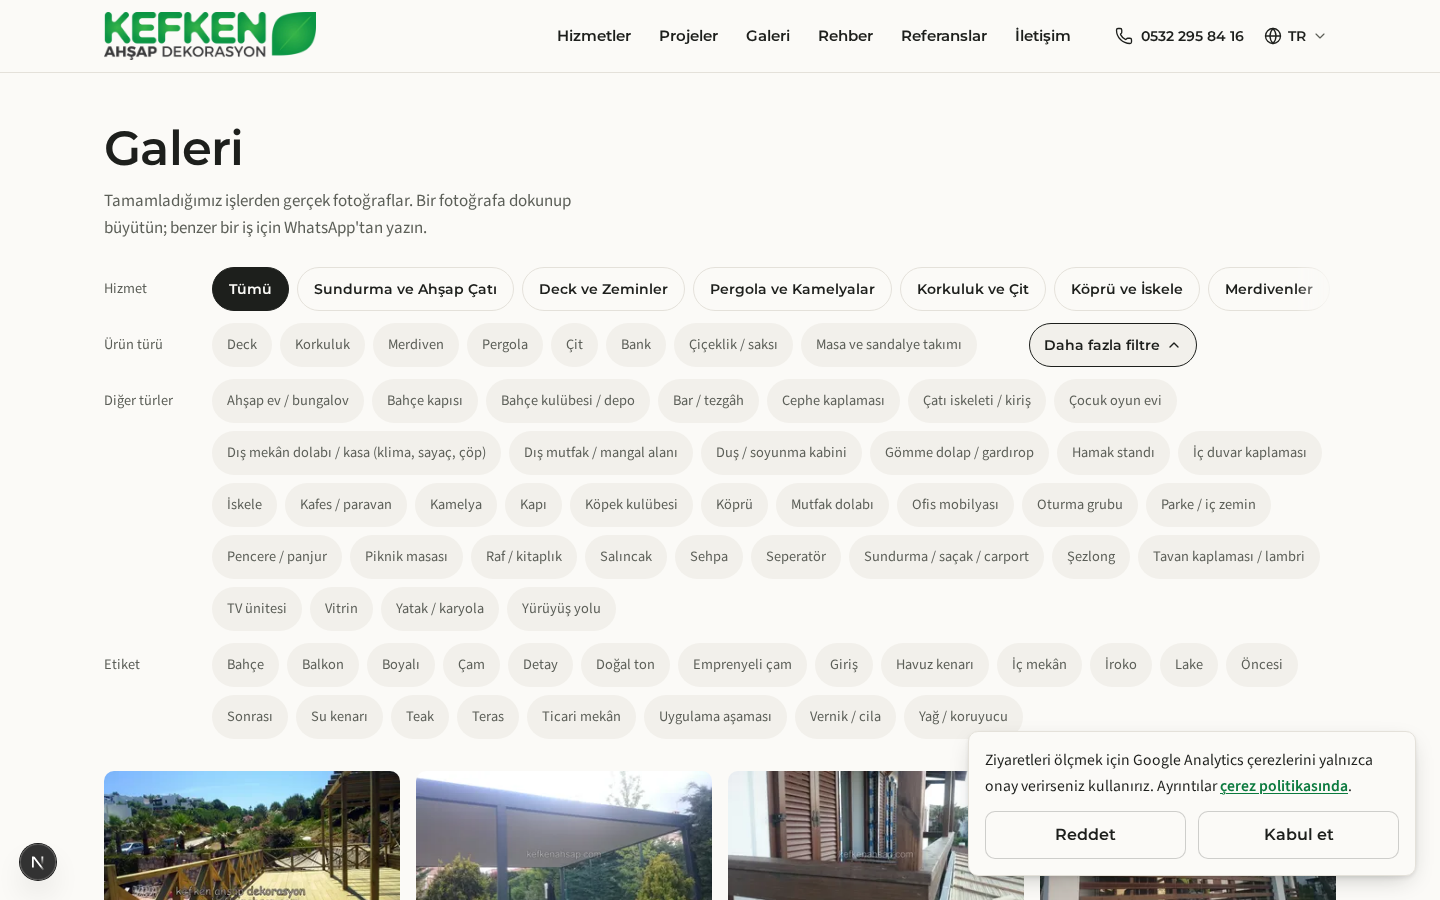
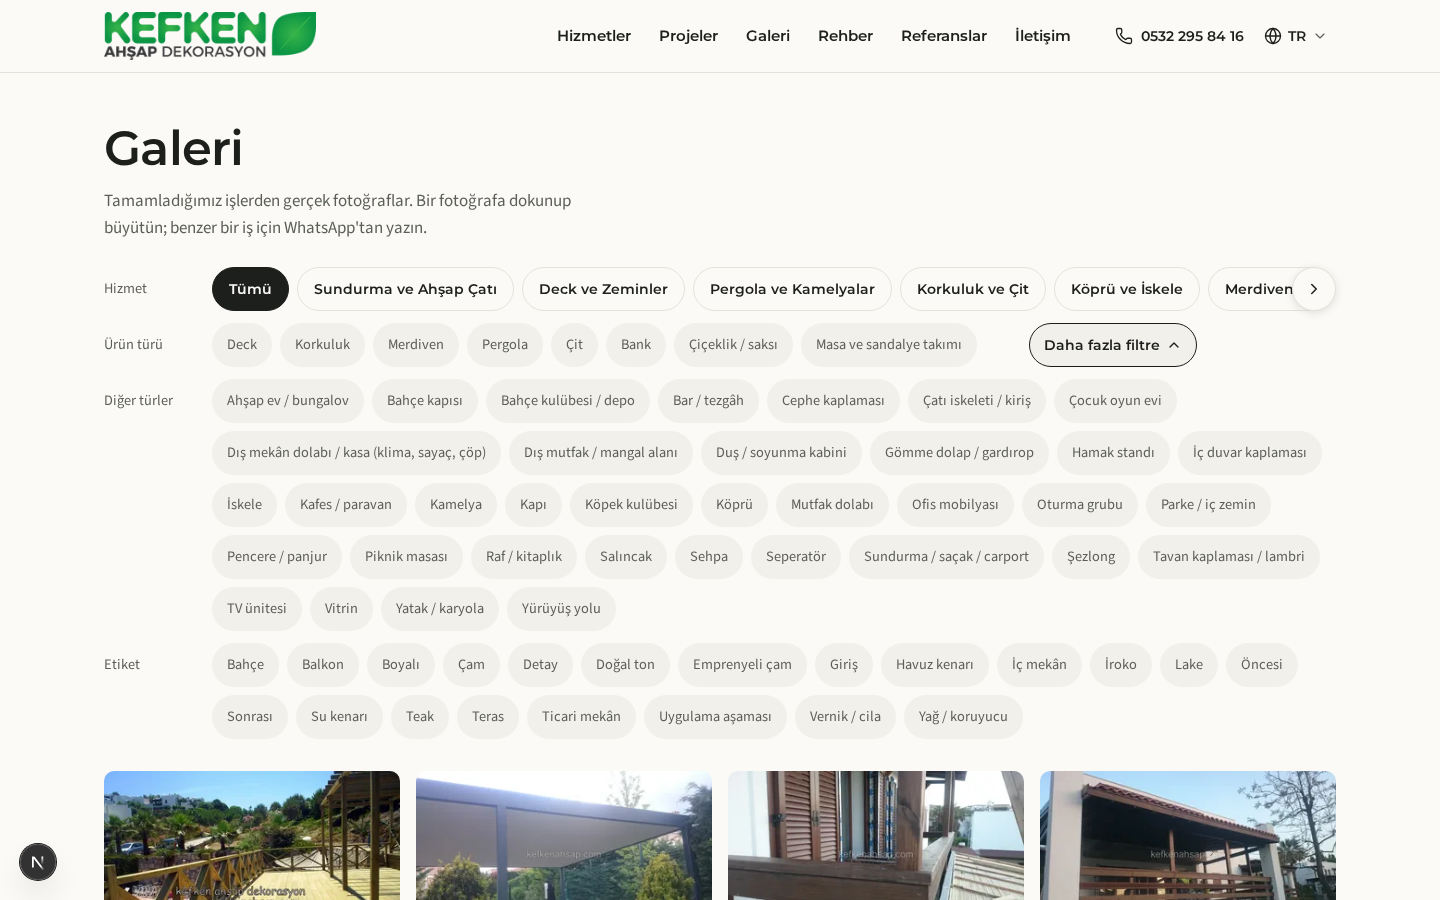
fix(gallery): mouse arrows on the filter rails, filters reachable without JS (#178)

Changed region(s): [[0.6562, 0.84, 0.9688, 0.9956]]

diff --git a/src/components/gallery/FilterControls.tsx b/src/components/gallery/FilterControls.tsx
@@ -1,26 +1,65 @@
 'use client'
 
-import { ChevronDown, SlidersHorizontal } from 'lucide-react'
+import { ChevronDown, ChevronLeft, ChevronRight, SlidersHorizontal } from 'lucide-react'
 import { useEffect, useRef, useState, type ReactNode } from 'react'
 
 /**
  * One-line chip rail (no wrap): scrolls sideways with snap, fades at its inline end, and centres the active chip
- * (`aria-current`) on load. A physical scrollBy delta, so it works in RTL and never scrolls the page itself.
+ * (`aria-current`) on load. Physical scrollBy deltas, so it works in RTL and never scrolls the page itself. Mouse users
+ * get previous/next arrows while there is more to scroll (touch swipes, keyboard tabs through the chips).
+ * `className` places the rail in its row; `railClassName` pads the scrolling strip.
  */
-export function FilterRail({ className = '', children, ...rest }: { className?: string; children: ReactNode } & React.HTMLAttributes<HTMLDivElement>) {
+export function FilterRail({
+  className = '',
+  railClassName = '',
+  children,
+  ...rest
+}: { className?: string; railClassName?: string; children: ReactNode } & React.HTMLAttributes<HTMLDivElement>) {
   const ref = useRef<HTMLDivElement>(null)
+  const [more, setMore] = useState({ back: false, next: false })
   useEffect(() => {
     const box = ref.current
-    const el = box?.querySelector('[aria-current]')
-    if (!box || !el) return
-    const b = box.getBoundingClientRect()
-    const r = el.getBoundingClientRect()
-    if (r.left >= b.left && r.right <= b.right - 40) return
-    box.scrollBy({ left: r.left - b.left - (b.width - r.width) / 2 })
+    if (!box) return
+    const el = box.querySelector('[aria-current]')
+    if (el) {
+      const b = box.getBoundingClientRect()
+      const r = el.getBoundingClientRect()
+      if (r.left < b.left + 40 || r.right > b.right - 40) box.scrollBy({ left: r.left - b.left - (b.width - r.width) / 2 })
+    }
+    // RTL scrollLeft runs negative from 0, so the magnitude is the distance from the start in both directions.
+    const sync = () => {
+      const x = Math.abs(box.scrollLeft)
+      setMore({ back: x > 1, next: x + box.clientWidth < box.scrollWidth - 1 })
+    }
+    const ro = new ResizeObserver(sync)
+    ro.observe(box)
+    box.addEventListener('scroll', sync, { passive: true })
+    return () => (ro.disconnect(), box.removeEventListener('scroll', sync))
   }, [])
+  const page = (dir: 1 | -1) => {
+    const box = ref.current
+    if (!box) return
+    const rtl = getComputedStyle(box).direction === 'rtl' ? -1 : 1
+    box.scrollBy({ left: dir * rtl * box.clientWidth * 0.8, behavior: 'smooth' })
+  }
+  const arrow =
+    'absolute top-1/2 z-10 hidden size-11 -translate-y-1/2 items-center justify-center rounded-full border border-line bg-paper text-ink shadow-[0_2px_8px_rgb(29_31_28/0.12)] transition-colors hover:border-ink/40 pointer-fine:flex'
   return (
-    <div ref={ref} {...rest} className={`rail ${className}`}>
-      {children}
+    <div className={`relative min-w-0 ${className}`}>
+      <div ref={ref} {...rest} className={`rail ${railClassName}`}>
+        {children}
+      </div>
+      {/* Mouse-only shortcuts: keyboard and screen readers already reach every chip in order. */}
+      {more.back && (
+        <button type="button" tabIndex={-1} aria-hidden onClick={() => page(-1)} className={`${arrow} start-0`}>
+          <ChevronLeft size={18} strokeWidth={2} className="rtl:rotate-180" />
+        </button>
+      )}
+      {more.next && (
+        <button type="button" tabIndex={-1} aria-hidden onClick={() => page(1)} className={`${arrow} end-0`}>
+          <ChevronRight size={18} strokeWidth={2} className="rtl:rotate-180" />
+        </button>
+      )}
     </div>
   )
 }
@@ -90,7 +129,7 @@ export function FilterMore({
       <noscript>
         <style>{`#${id}{display:flex!important}.js-only{display:none!important}`}</style>
       </noscript>
-      <div id={id} hidden={!open} className={`flex flex-col gap-3 ${auto ? 'max-md:hidden' : ''}`}>
+      <div id={id} className={`flex-col gap-3 ${open ? 'flex' : 'hidden'} ${auto ? 'max-md:hidden' : ''}`}>
         {children}
       </div>
     </>

diff --git a/tests/e2e/gallery.e2e.spec.ts b/tests/e2e/gallery.e2e.spec.ts
@@ -61,11 +61,21 @@ test.describe('gallery', () => {
         await expect(page).toHaveURL(/\/tr\/galeri$/)
       }
     }
-    // A service shows only the types it has photos for: never more chips than with "Tümü".
-    const all = await types.count()
-    await page.getByRole('group', { name: 'Hizmet' }).getByRole('link').nth(1).click()
-    await expect(page).toHaveURL(/\?kategori=/)
-    expect(await types.count()).toBeLessThanOrEqual(Math.max(all, 8))
+  })
+
+  test('phone: photos start within the first viewport', async ({ browser, baseURL }) => {
+    const page = await browser.newPage({ baseURL, viewport: { width: 390, height: 844 } })
+    await page.goto('/tr/galeri')
+    const top = await page.locator('[data-gallery-item]:visible').first().evaluate((e) => e.getBoundingClientRect().top)
+    expect(top).toBeLessThan(844 / 2)
+    await page.close()
+  })
+
+  test('without JS every filter stays reachable', async ({ browser, baseURL }) => {
+    const page = await browser.newPage({ baseURL, javaScriptEnabled: false })
+    await page.goto('/tr/galeri')
+    if (await page.locator('#filter-more').count()) await expect(page.locator('#filter-more')).toBeVisible()
+    await page.close()
   })
 
   test('image page with related photos', async ({ page }) => {

diff --git a/src/components/gallery/GalleryFilters.tsx b/src/components/gallery/GalleryFilters.tsx
@@ -122,7 +122,7 @@ export async function GalleryFilters({
       <p id="filter-types" className={label}>
         {t('typeFilter')}
       </p>
-      <FilterRail role="group" aria-labelledby="filter-types" className="-ms-1.5 -me-4 min-w-0 flex-1 ps-1.5 md:me-0 md:flex-initial">
+      <FilterRail role="group" aria-labelledby="filter-types" className="-ms-1.5 -me-4 flex-1 md:me-0 md:flex-initial" railClassName="ps-1.5">
         {tagLinks(types, 'tur')}
       </FilterRail>
     </>
@@ -149,7 +149,7 @@ export async function GalleryFilters({
         <p id="filter-services" className={label}>
           {t('serviceFilter')}
         </p>
-        <FilterRail role="group" aria-labelledby="filter-services" className="-mx-4 ps-4 md:-ms-1.5 md:me-0 md:min-w-0 md:flex-1 md:ps-1.5">
+        <FilterRail role="group" aria-labelledby="filter-services" className="-mx-4 md:-ms-1.5 md:me-0 md:flex-1" railClassName="ps-4 md:ps-1.5">
           {serviceChips}
         </FilterRail>
       </div>
